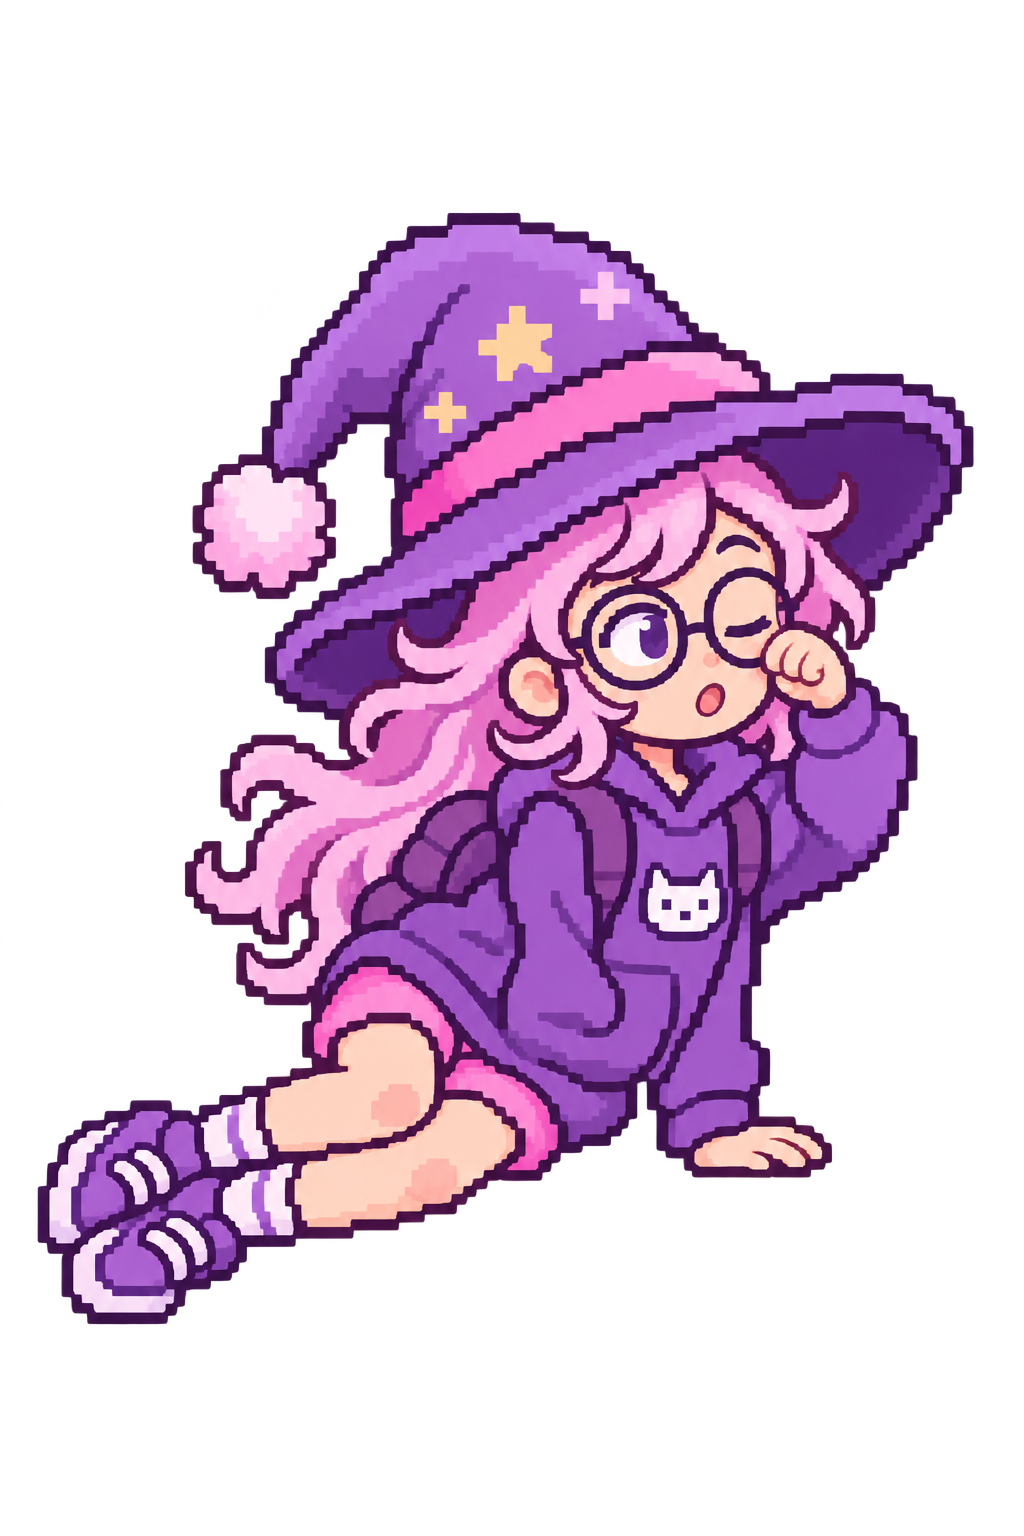
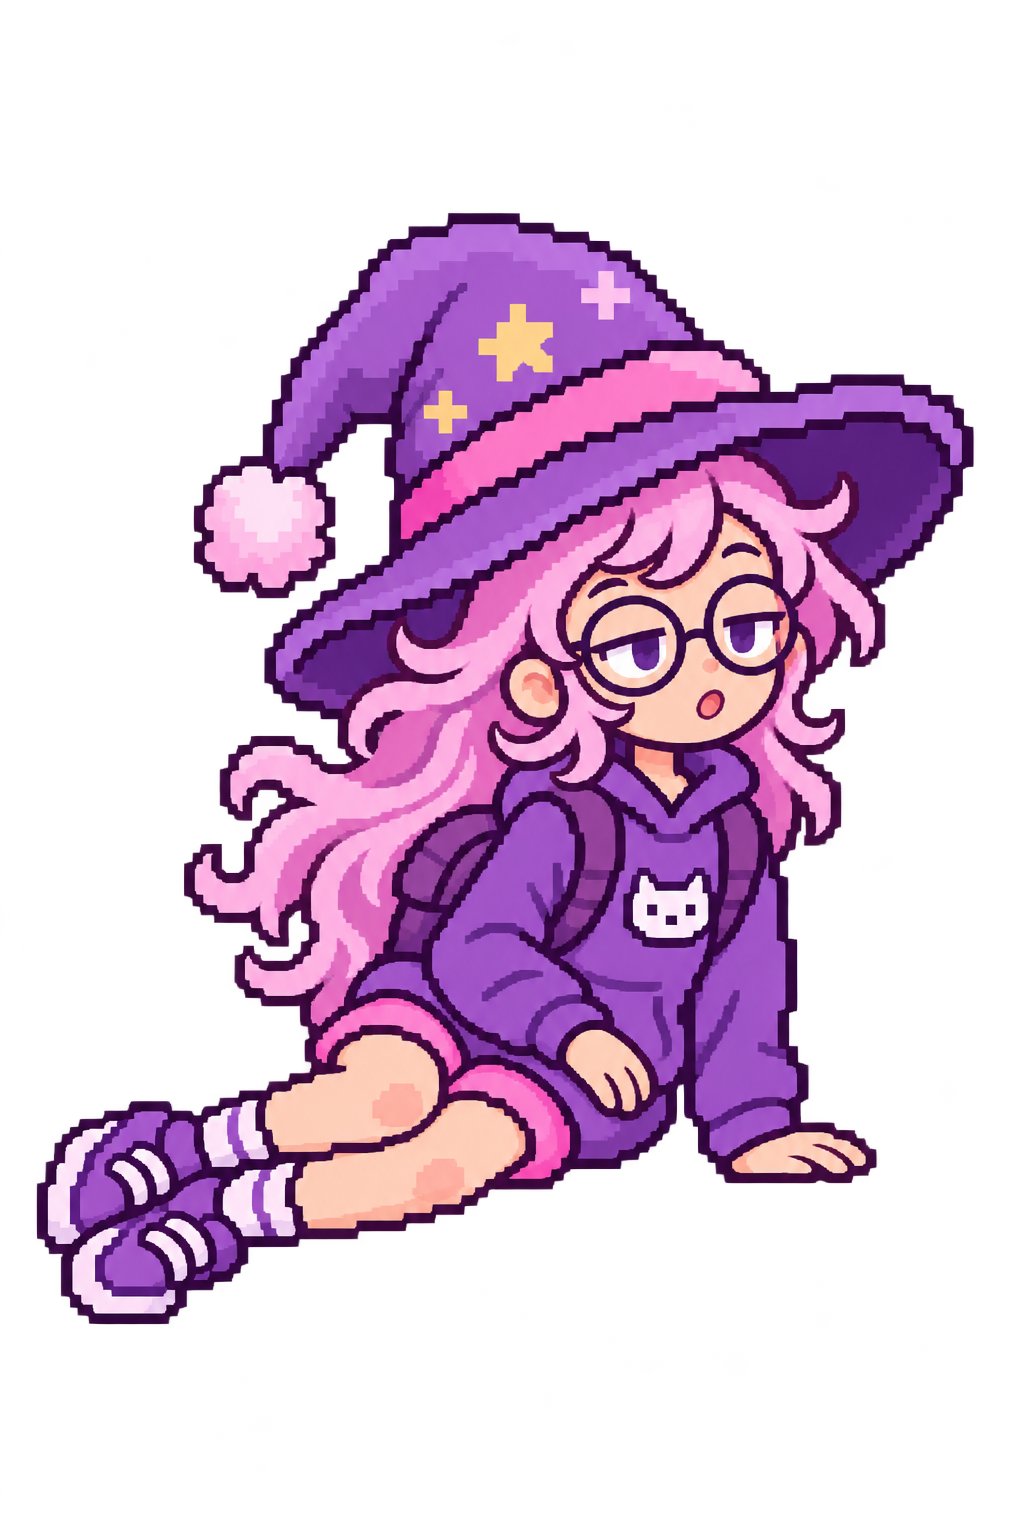
Correct Luna waking pose and record author feedback

diff --git a/assets/production/ART_PRODUCTION_MANUAL.md b/assets/production/ART_PRODUCTION_MANUAL.md
@@ -24,6 +24,7 @@ python3 assets/production/characters/source/export_sprites.py
 - **Classic.** Изолированный полнофигурный покой анфас, 1024×1536, прозрачный фон. Точное направление крупных пиксельных кластеров, контур, глаза, возраст и масштаб по Луне и Они. Собственный костюм и узнаваемые детали по авторскому листу и готовому портрету.
 - **Classic в три четверти вправо.** Первый референс — фронт конкретного героя с актуальным костюмом, пропорциями, лицом и цветом. Второй — Луна Classic `front_right` для ракурса. Покой стоя, поворот головы, корпуса и обуви вправо примерно на 40°, оба глаза видны, дальнее плечо и глаз сокращены перспективой. Сохранить графику одежды и личные детали. Один полнофигурный кадр, прозрачный холст 1024×1536, крупные квадратные кластеры и ступенчатый контур. Экспорт в 128×192 с рамкой вокруг силуэта и выравниванием по стопам.
 - **Действия Луны.** По утверждённому Classic подготовлены отдельные рабочие пробы хвата, поднятия и опускания пустой руки, прыжка и пробуждения на боку. Сохраняются одежда и внешность, предмет размещается отдельно на точке хвата. Пробуждение не содержит поверхности.
+- **Поправка пробуждения.** Изменить пробу так, чтобы одна рука опиралась на поверхность, а вторая лежала на коленях. Удалить поднятую к глазу лишнюю руку. Поза на боку, одежда и пиксельный стиль Луны сохраняются.
 - **Тоффи.** Мягкие длинные уши, небольшой чубчик, спокойная улыбка, жёлто-оранжевая толстовка в полоску, круглый подвес, белые ноги и светлые ботинки. Зафиксирован присланный автором второй кадр.
 - **Ори.** Белый худи, голубой кончик хвоста, компактная Земля с голубой водой, салатовыми материками и бело-серыми облаками. В экспорте принт уложен на более крупную сетку.
 - **Лея.** Зелёное платье, длинные тёплые волосы. Локальная правка подвеса на жёлтый полумесяц.

diff --git a/assets/production/ART_ASSET_REGISTER.md b/assets/production/ART_ASSET_REGISTER.md
@@ -22,7 +22,7 @@
 
 ## Позы рук и предметы
 
-Для Луны подготовлены [первые пробы хвата, поднятия и опускания руки, пробуждения и прыжка](characters/previews/luna-action-studies.png). Исходники лежат в `characters/source/luna-action-studies/`. Это рабочие изображения для выверки, им ещё нужны общая регистрация, точки хвата, промежуточные кадры и проверка движения в игре. Место под предмет находится в сомкнутой кисти. Пробуждение подготовлено без поверхности и матраса.
+Для Луны подготовлены [первые пробы хвата, поднятия и опускания руки, пробуждения и прыжка](characters/previews/luna-action-studies.png). Автор предварительно согласовал хват, движение руки и прыжок. Первый вариант пробуждения с лишней рукой отклонён, вместо него подготовлена новая проба с двумя руками. Исходники лежат в `characters/source/luna-action-studies/`. Изображениям ещё нужны общая регистрация, точки хвата, промежуточные кадры и проверка движения в игре. Место под предмет находится в сомкнутой кисти. Пробуждение подготовлено без поверхности и матраса, фоновое свечение в исходнике нужно очистить при подготовке игрового кадра.
 
 Для каждого направления Classic и кадра движения предусмотреть три варианта позы руки. У вариантов общая опора тела. Точка и угол хвата задаются для соответствующего ракурса и кадра.
 
